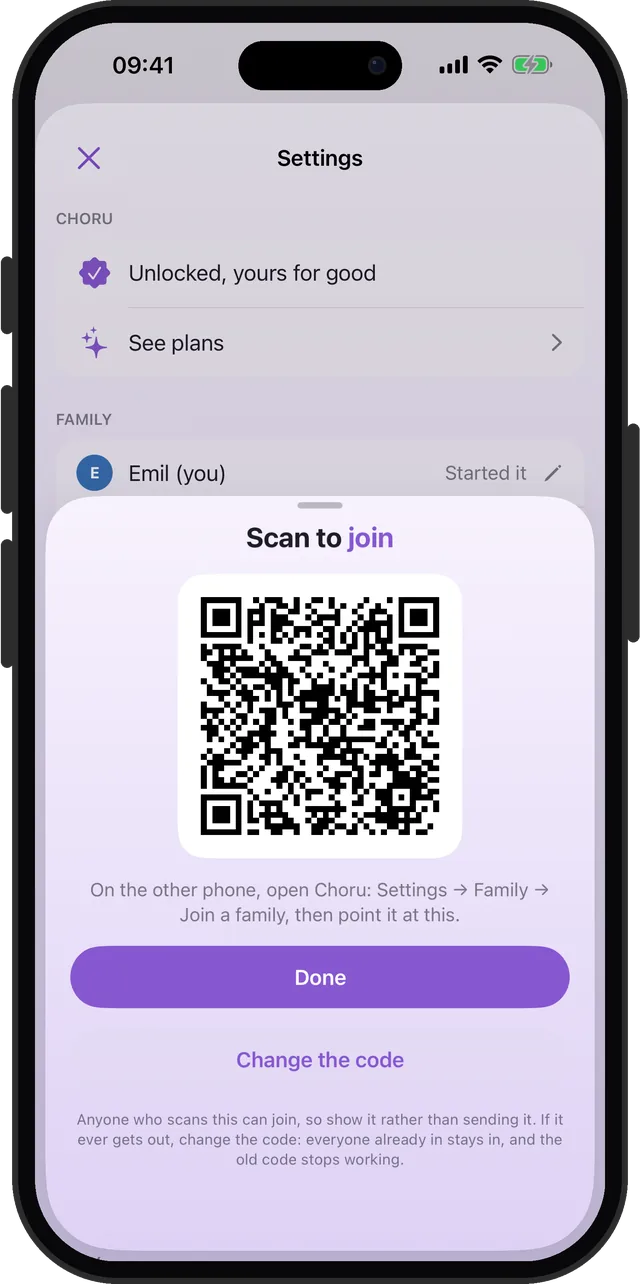
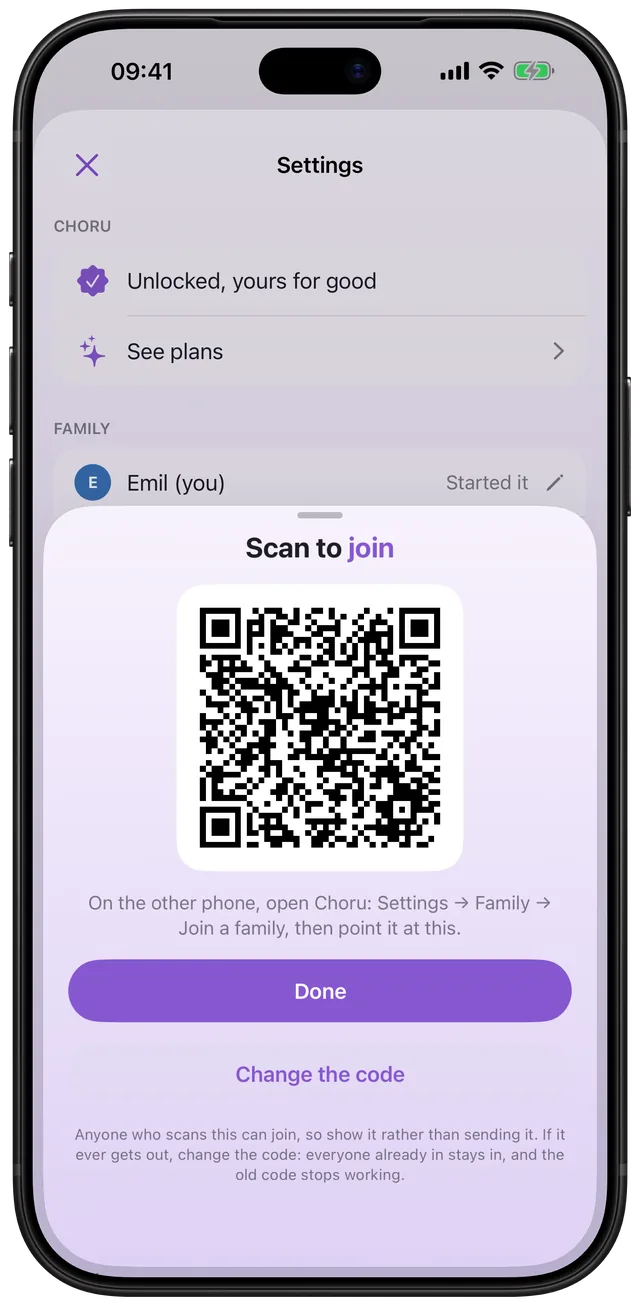
Phone images in Apple's own iPhone 18 Pro Max bezel
Replaces the drawn shell (and its painted island) with Apple's product bezel from Design Resources,
via Holocron tools/web-frames/apple_bezel.py; the bezel PNGs stay outside the repo. Any island already
in a capture is erased first so Apple's smaller one doesn't show a ghost. Every framed shot is now
640x1306 (Rise 600x1224); img width/height updated to match, PNG twins regenerated.
Layouts unchanged: Emil's call (Holocron brand.md 2026-11-01).

diff --git a/index.html b/index.html
@@ -188,7 +188,7 @@
       </div>
     </div>
     <div class="hero-art">
-      <img class="screen" src="/assets/shot-mess.webp" onerror="this.onerror=null;this.src='/assets/shot-mess.png'" alt="Choru on iPhone: the week calendar with three overdue chores, and Choru the dragon under a pile of mess" width="640" height="1284" fetchpriority="high">
+      <img class="screen" src="/assets/shot-mess.webp" onerror="this.onerror=null;this.src='/assets/shot-mess.png'" alt="Choru on iPhone: the week calendar with three overdue chores, and Choru the dragon under a pile of mess" width="640" height="1306" fetchpriority="high">
     </div>
   </div>
 </section>
@@ -258,77 +258,77 @@
       <div class="shots-track">
         <div class="shots-set">
           <figure>
-            <img class="screen" src="/assets/shot-mess.webp" onerror="this.onerror=null;this.src='/assets/shot-mess.png'" alt="The week calendar with three overdue chores, and Choru the dragon under a pile of mess" loading="lazy" width="640" height="1284">
+            <img class="screen" src="/assets/shot-mess.webp" onerror="this.onerror=null;this.src='/assets/shot-mess.png'" alt="The week calendar with three overdue chores, and Choru the dragon under a pile of mess" loading="lazy" width="640" height="1306">
             <figcaption>Help Choru out of the mess</figcaption>
           </figure>
           <figure>
-            <img class="screen" src="/assets/shot-done.webp" onerror="this.onerror=null;this.src='/assets/shot-done.png'" alt="Today&#x27;s chores all ticked off, and Choru the dragon resting" loading="lazy" width="640" height="1284">
+            <img class="screen" src="/assets/shot-done.webp" onerror="this.onerror=null;this.src='/assets/shot-done.png'" alt="Today&#x27;s chores all ticked off, and Choru the dragon resting" loading="lazy" width="640" height="1306">
             <figcaption>One tick at a time</figcaption>
           </figure>
           <figure>
-            <img class="screen" src="/assets/shot-chores.webp" onerror="this.onerror=null;this.src='/assets/shot-chores.png'" alt="The Chores tab: what is due today and in the next 7 days, each with its repeat" loading="lazy" width="640" height="1284">
+            <img class="screen" src="/assets/shot-chores.webp" onerror="this.onerror=null;this.src='/assets/shot-chores.png'" alt="The Chores tab: what is due today and in the next 7 days, each with its repeat" loading="lazy" width="640" height="1306">
             <figcaption>Every chore on its own rhythm</figcaption>
           </figure>
           <figure>
-            <img class="screen" src="/assets/shot-editor.webp" onerror="this.onerror=null;this.src='/assets/shot-editor.png'" alt="Editing a chore: its repeat, who it is for, and how many coins it pays" loading="lazy" width="640" height="1284">
+            <img class="screen" src="/assets/shot-editor.webp" onerror="this.onerror=null;this.src='/assets/shot-editor.png'" alt="Editing a chore: its repeat, who it is for, and how many coins it pays" loading="lazy" width="640" height="1306">
             <figcaption>Set it once, it repeats</figcaption>
           </figure>
           <figure>
-            <img class="screen" src="/assets/shot-family.webp" onerror="this.onerror=null;this.src='/assets/shot-family.png'" alt="The family&#x27;s join code, ready for another iPhone to scan" loading="lazy" width="640" height="1284">
+            <img class="screen" src="/assets/shot-family.webp" onerror="this.onerror=null;this.src='/assets/shot-family.png'" alt="The family&#x27;s join code, ready for another iPhone to scan" loading="lazy" width="640" height="1306">
             <figcaption>One family, every iPhone</figcaption>
           </figure>
           <figure>
-            <img class="screen" src="/assets/shot-kids.webp" onerror="this.onerror=null;this.src='/assets/shot-kids.png'" alt="The Kids tab: a kid&#x27;s streak, chores and rewards" loading="lazy" width="640" height="1284">
+            <img class="screen" src="/assets/shot-kids.webp" onerror="this.onerror=null;this.src='/assets/shot-kids.png'" alt="The Kids tab: a kid&#x27;s streak, chores and rewards" loading="lazy" width="640" height="1306">
             <figcaption>A Kids tab for the children</figcaption>
           </figure>
           <figure>
-            <img class="screen" src="/assets/shot-rewards.webp" onerror="this.onerror=null;this.src='/assets/shot-rewards.png'" alt="Rewards with their prices in coins, like an hour of screen time or a day out" loading="lazy" width="640" height="1284">
+            <img class="screen" src="/assets/shot-rewards.webp" onerror="this.onerror=null;this.src='/assets/shot-rewards.png'" alt="Rewards with their prices in coins, like an hour of screen time or a day out" loading="lazy" width="640" height="1306">
             <figcaption>Earn coins for every chore</figcaption>
           </figure>
           <figure>
-            <img class="screen" src="/assets/shot-stats.webp" onerror="this.onerror=null;this.src='/assets/shot-stats.png'" alt="Stats: your streak, coins, and the family&#x27;s chores this week" loading="lazy" width="640" height="1284">
+            <img class="screen" src="/assets/shot-stats.webp" onerror="this.onerror=null;this.src='/assets/shot-stats.png'" alt="Stats: your streak, coins, and the family&#x27;s chores this week" loading="lazy" width="640" height="1306">
             <figcaption>See what got done</figcaption>
           </figure>
           <figure>
-            <img class="screen" src="/assets/shot-widgets.webp" onerror="this.onerror=null;this.src='/assets/shot-widgets.png'" alt="Home Screen widgets with today&#x27;s chores and Choru the dragon" loading="lazy" width="640" height="1284">
+            <img class="screen" src="/assets/shot-widgets.webp" onerror="this.onerror=null;this.src='/assets/shot-widgets.png'" alt="Home Screen widgets with today&#x27;s chores and Choru the dragon" loading="lazy" width="640" height="1306">
             <figcaption>Home Screen widgets</figcaption>
           </figure>
         </div>
         <div class="shots-set" aria-hidden="true">
           <figure>
-            <img class="screen" src="/assets/shot-mess.webp" onerror="this.onerror=null;this.src='/assets/shot-mess.png'" alt="" loading="lazy" width="640" height="1284">
+            <img class="screen" src="/assets/shot-mess.webp" onerror="this.onerror=null;this.src='/assets/shot-mess.png'" alt="" loading="lazy" width="640" height="1306">
             <figcaption>Help Choru out of the mess</figcaption>
           </figure>
           <figure>
-            <img class="screen" src="/assets/shot-done.webp" onerror="this.onerror=null;this.src='/assets/shot-done.png'" alt="" loading="lazy" width="640" height="1284">
+            <img class="screen" src="/assets/shot-done.webp" onerror="this.onerror=null;this.src='/assets/shot-done.png'" alt="" loading="lazy" width="640" height="1306">
             <figcaption>One tick at a time</figcaption>
           </figure>
           <figure>
-            <img class="screen" src="/assets/shot-chores.webp" onerror="this.onerror=null;this.src='/assets/shot-chores.png'" alt="" loading="lazy" width="640" height="1284">
+            <img class="screen" src="/assets/shot-chores.webp" onerror="this.onerror=null;this.src='/assets/shot-chores.png'" alt="" loading="lazy" width="640" height="1306">
             <figcaption>Every chore on its own rhythm</figcaption>
           </figure>
           <figure>
-            <img class="screen" src="/assets/shot-editor.webp" onerror="this.onerror=null;this.src='/assets/shot-editor.png'" alt="" loading="lazy" width="640" height="1284">
+            <img class="screen" src="/assets/shot-editor.webp" onerror="this.onerror=null;this.src='/assets/shot-editor.png'" alt="" loading="lazy" width="640" height="1306">
             <figcaption>Set it once, it repeats</figcaption>
           </figure>
           <figure>
-            <img class="screen" src="/assets/shot-family.webp" onerror="this.onerror=null;this.src='/assets/shot-family.png'" alt="" loading="lazy" width="640" height="1284">
+            <img class="screen" src="/assets/shot-family.webp" onerror="this.onerror=null;this.src='/assets/shot-family.png'" alt="" loading="lazy" width="640" height="1306">
             <figcaption>One family, every iPhone</figcaption>
           </figure>
           <figure>
-            <img class="screen" src="/assets/shot-kids.webp" onerror="this.onerror=null;this.src='/assets/shot-kids.png'" alt="" loading="lazy" width="640" height="1284">
+            <img class="screen" src="/assets/shot-kids.webp" onerror="this.onerror=null;this.src='/assets/shot-kids.png'" alt="" loading="lazy" width="640" height="1306">
             <figcaption>A Kids tab for the children</figcaption>
           </figure>
           <figure>
-            <img class="screen" src="/assets/shot-rewards.webp" onerror="this.onerror=null;this.src='/assets/shot-rewards.png'" alt="" loading="lazy" width="640" height="1284">
+            <img class="screen" src="/assets/shot-rewards.webp" onerror="this.onerror=null;this.src='/assets/shot-rewards.png'" alt="" loading="lazy" width="640" height="1306">
             <figcaption>Earn coins for every chore</figcaption>
           </figure>
           <figure>
-            <img class="screen" src="/assets/shot-stats.webp" onerror="this.onerror=null;this.src='/assets/shot-stats.png'" alt="" loading="lazy" width="640" height="1284">
+            <img class="screen" src="/assets/shot-stats.webp" onerror="this.onerror=null;this.src='/assets/shot-stats.png'" alt="" loading="lazy" width="640" height="1306">
             <figcaption>See what got done</figcaption>
           </figure>
           <figure>
-            <img class="screen" src="/assets/shot-widgets.webp" onerror="this.onerror=null;this.src='/assets/shot-widgets.png'" alt="" loading="lazy" width="640" height="1284">
+            <img class="screen" src="/assets/shot-widgets.webp" onerror="this.onerror=null;this.src='/assets/shot-widgets.png'" alt="" loading="lazy" width="640" height="1306">
             <figcaption>Home Screen widgets</figcaption>
           </figure>
         </div>

diff --git a/guides/split-chores-with-partner/index.html b/guides/split-chores-with-partner/index.html
@@ -141,14 +141,14 @@
   <li>Tick chores off as you do them. When a chore is on both your lists, Choru asks "Did you have help?" after the tick, so the coins go to everyone who pitched in.</li>
 </ol>
 <figure>
-  <img class="screen" src="/assets/shot-editor.webp" onerror="this.onerror=null;this.src='/assets/shot-editor.png'" alt="Editing a chore in Choru: Wipe the counters, repeating daily, with a For row to pick who it belongs to and a reward of 3 coins" loading="lazy" width="640" height="1284">
+  <img class="screen" src="/assets/shot-editor.webp" onerror="this.onerror=null;this.src='/assets/shot-editor.png'" alt="Editing a chore in Choru: Wipe the counters, repeating daily, with a For row to pick who it belongs to and a reward of 3 coins" loading="lazy" width="640" height="1306">
   <figcaption>Who it is for, how often it comes back, and what it pays.</figcaption>
 </figure>
 
 <h2>Check in on the numbers, not the feelings</h2>
 <p>Once a week, look at what actually got done. Choru's Stats count each person's chores for the week, which can settle the "I do everything" debate, one way or the other. If one side keeps coming out heavy, move a chore across. No speeches needed.</p>
 <figure>
-  <img class="screen" src="/assets/shot-stats.webp" onerror="this.onerror=null;this.src='/assets/shot-stats.png'" alt="Choru Stats with the family&#x27;s chores this week, counted per person" loading="lazy" width="640" height="1284">
+  <img class="screen" src="/assets/shot-stats.webp" onerror="this.onerror=null;this.src='/assets/shot-stats.png'" alt="Choru Stats with the family&#x27;s chores this week, counted per person" loading="lazy" width="640" height="1306">
   <figcaption>The week's chores, per person.</figcaption>
 </figure>
 <div class="note-box">You each need Choru on your own iPhone, signed in to your own Apple Account. A family can have up to five people.</div>

diff --git a/guides/deep-cleaning-schedule/index.html b/guides/deep-cleaning-schedule/index.html
@@ -140,14 +140,14 @@
 </ol>
 <p>Some jobs do not need a fixed date. Make those anytime tasks instead: tick one off whenever you get to it, and it comes back a month, three months, six months or a year later.</p>
 <figure>
-  <img class="screen" src="/assets/shot-chores.webp" onerror="this.onerror=null;this.src='/assets/shot-chores.png'" alt="Choru&#x27;s Chores tab: chores due today and in the next 7 days, each showing its repeat, like every 2 weeks or weekly" loading="lazy" width="640" height="1284">
+  <img class="screen" src="/assets/shot-chores.webp" onerror="this.onerror=null;this.src='/assets/shot-chores.png'" alt="Choru&#x27;s Chores tab: chores due today and in the next 7 days, each showing its repeat, like every 2 weeks or weekly" loading="lazy" width="640" height="1306">
   <figcaption>Each chore keeps its own rhythm and shows when it is next due.</figcaption>
 </figure>
 
 <h2>When you miss one</h2>
 <p>You will. Life happens. On a paper schedule, a missed job is simply gone until someone remembers. In Choru it carries over to today as one row, with how late it is, so the oven that was due three weeks ago is still there, asking politely.</p>
 <figure>
-  <img class="screen" src="/assets/shot-mess.webp" onerror="this.onerror=null;this.src='/assets/shot-mess.png'" alt="Choru&#x27;s calendar with three overdue chores carried over to today, and Choru the dragon under a pile of mess" loading="lazy" width="640" height="1284">
+  <img class="screen" src="/assets/shot-mess.webp" onerror="this.onerror=null;this.src='/assets/shot-mess.png'" alt="Choru&#x27;s calendar with three overdue chores carried over to today, and Choru the dragon under a pile of mess" loading="lazy" width="640" height="1306">
   <figcaption>Missed chores carry over to today, showing how late they are.</figcaption>
 </figure>
 

diff --git a/guides/chore-chart-for-kids-with-rewards/index.html b/guides/chore-chart-for-kids-with-rewards/index.html
@@ -137,14 +137,14 @@
   <li>Add rewards for each kid in the Kids tab, set their prices, and let the coins pile up.</li>
 </ol>
 <figure>
-  <img class="screen" src="/assets/shot-kids.webp" onerror="this.onerror=null;this.src='/assets/shot-kids.png'" alt="Choru&#x27;s Kids tab for Mia: a 21 day streak, her chores for today, and rewards like Pick the film for 12 coins" loading="lazy" width="640" height="1284">
+  <img class="screen" src="/assets/shot-kids.webp" onerror="this.onerror=null;this.src='/assets/shot-kids.png'" alt="Choru&#x27;s Kids tab for Mia: a 21 day streak, her chores for today, and rewards like Pick the film for 12 coins" loading="lazy" width="640" height="1306">
   <figcaption>Each kid's chores, streak, coins and rewards, on one screen.</figcaption>
 </figure>
 
 <h2>Their own phone, locked to their own list</h2>
 <p>A kid's phone locks itself to their own chores and rewards, so nobody quietly re-prices their own jobs. Any grown-up in the family can get past the lock with the parent PIN.</p>
 <figure>
-  <img class="screen" src="/assets/shot-kidphone.webp" onerror="this.onerror=null;this.src='/assets/shot-kidphone.png'" alt="A kid&#x27;s iPhone in Choru, showing only their own chores for today and the next 7 days" loading="lazy" width="640" height="1284">
+  <img class="screen" src="/assets/shot-kidphone.webp" onerror="this.onerror=null;this.src='/assets/shot-kidphone.png'" alt="A kid&#x27;s iPhone in Choru, showing only their own chores for today and the next 7 days" loading="lazy" width="640" height="1306">
   <figcaption>On a kid's phone: their chores, and nothing to re-price.</figcaption>
 </figure>
 <div class="note-box">Coins are a tally inside the app, not money. What a reward is, and keeping the promise, stays between you and your kids.</div>

diff --git a/guides/share-chore-list-with-family-iphone/index.html b/guides/share-chore-list-with-family-iphone/index.html
@@ -131,7 +131,7 @@
   <li>Put a chore on someone's list with the For row when you add or edit it.</li>
 </ol>
 <figure>
-  <img class="screen" src="/assets/shot-family.webp" onerror="this.onerror=null;this.src='/assets/shot-family.png'" alt="Choru showing the family&#x27;s join code to scan, with the steps for the other phone" loading="lazy" width="640" height="1284">
+  <img class="screen" src="/assets/shot-family.webp" onerror="this.onerror=null;this.src='/assets/shot-family.png'" alt="Choru showing the family&#x27;s join code to scan, with the steps for the other phone" loading="lazy" width="640" height="1306">
   <figcaption>The other phone scans the code and joins.</figcaption>
 </figure>
 

diff --git a/guides/chores-in-reminders-app/index.html b/guides/chores-in-reminders-app/index.html
@@ -152,7 +152,7 @@
   <li>A streak, with rest days and days away so a day off does not break it.</li>
 </ul>
 <figure>
-  <img class="screen" src="/assets/shot-done.webp" onerror="this.onerror=null;this.src='/assets/shot-done.png'" alt="Choru&#x27;s calendar with today&#x27;s chores all ticked and Choru the dragon resting" loading="lazy" width="640" height="1284">
+  <img class="screen" src="/assets/shot-done.webp" onerror="this.onerror=null;this.src='/assets/shot-done.png'" alt="Choru&#x27;s calendar with today&#x27;s chores all ticked and Choru the dragon resting" loading="lazy" width="640" height="1306">
   <figcaption>All done. Choru can rest now.</figcaption>
 </figure>
 

diff --git a/_gen/make_assets.py b/_gen/make_assets.py
@@ -15,6 +15,11 @@ import os
 import sys
 from PIL import Image, ImageDraw, ImageFont
 
+# Apple's own product bezel since 2026-11-01 (Holocron brand.md; bezel PNGs in ~/Documents/Xcode/AppleBezels,
+# never in this repo). The bezel carries the Dynamic Island and camera, so nothing is painted on the capture.
+sys.path.insert(0, os.path.expanduser("~/Documents/Holocron/tools/web-frames"))
+from apple_bezel import frame as apple_frame  # noqa: E402
+
 GEN = os.path.dirname(os.path.abspath(__file__))
 SITE = os.path.dirname(GEN)
 APP = os.path.dirname(SITE)                      # the Choru app repo this site sits in
@@ -55,42 +60,9 @@ MASCOTS = {
 
 
 def shell(img):
-    """AlarmPlanner's frame_web.py shell (buttons protrude) plus the store Dynamic Island."""
-    img = img.convert("RGBA")
-    sw, height = img.size
-    scr_r = int(sw * SCREEN_R_RATIO)
-    bez = max(6, int(sw * BEZEL_RATIO))
-    rimw = max(2, int(sw * RIM_RATIO))
-    bwid = max(3, rimw * 2)
+    """The capture in Apple's iPhone bezel (Dynamic Island and camera included)."""
+    return apple_frame(img)
 
-    fw, fh = sw + (bez + rimw) * 2, height + (bez + rimw) * 2
-    W, H = fw + bwid * 2, fh
-    ox = bwid
-    out = Image.new("RGBA", (W, H), (0, 0, 0, 0))
-    d = ImageDraw.Draw(out)
-
-    unit = fh / 100
-    for y0, y1 in [(20, 26), (30, 40), (42, 52)]:                     # action, vol up, vol down
-        d.rounded_rectangle([2, int(unit * y0), ox + 2, int(unit * y1)],
-                            radius=bwid // 2, fill=RIM_COLOR)
-    d.rounded_rectangle([ox + fw - 2, int(unit * 33), W - 2, int(unit * 50)],   # power
-                        radius=bwid // 2, fill=RIM_COLOR)
-
-    d.rounded_rectangle([(ox, 0), (ox + fw - 1, fh - 1)], radius=scr_r + bez + rimw, fill=RIM_COLOR)
-    d.rounded_rectangle([(ox + rimw, rimw), (ox + fw - rimw - 1, fh - rimw - 1)],
-                        radius=scr_r + bez, fill=(8, 8, 10, 255))
-
-    m = Image.new("L", img.size, 0)
-    ImageDraw.Draw(m).rounded_rectangle([(0, 0), img.size], radius=scr_r, fill=255)
-    img.putalpha(m)
-    out.paste(img, (ox + bez + rimw, bez + rimw), img)
-
-    iw, ih = round(sw * ISLAND["w_ratio"]), round(sw * ISLAND["h_ratio"])
-    top = bez + rimw + round(sw * ISLAND["top_ratio"])
-    ix = ox + bez + rimw + (sw - iw) // 2
-    d.rounded_rectangle([ix, top, ix + iw, top + ih], radius=ih // 2, fill=(0, 0, 0, 255))
-    out.alpha_composite(camera_lens(ih), (ix + iw - ih, top))
-    return out
 
 
 def camera_lens(ih):

diff --git a/_gen/build.py b/_gen/build.py
@@ -200,7 +200,7 @@ def badge(campaign, label="Download Choru on the App Store"):
 
 def figure(src, alt, caption):
     return f"""<figure>
-  <img class="screen" src="/assets/{src}" alt="{html.escape(alt)}" loading="lazy" width="640" height="1284">
+  <img class="screen" src="/assets/{src}" alt="{html.escape(alt)}" loading="lazy" width="640" height="1306">
   <figcaption>{caption}</figcaption>
 </figure>"""
 
@@ -786,7 +786,7 @@ def feature_cards():
 
 def marquee_set(hidden):
     figs = "\n".join(f"""          <figure>
-            <img class="screen" src="/assets/{src}" alt="{'' if hidden else html.escape(alt)}" loading="lazy" width="640" height="1284">
+            <img class="screen" src="/assets/{src}" alt="{'' if hidden else html.escape(alt)}" loading="lazy" width="640" height="1306">
             <figcaption>{cap}</figcaption>
           </figure>""" for src, alt, cap in SHOTS)
     aria = ' aria-hidden="true"' if hidden else ""
@@ -823,7 +823,7 @@ home_body = f"""
       </div>
     </div>
     <div class="hero-art">
-      <img class="screen" src="/assets/shot-mess.webp" alt="Choru on iPhone: the week calendar with three overdue chores, and Choru the dragon under a pile of mess" width="640" height="1284" fetchpriority="high">
+      <img class="screen" src="/assets/shot-mess.webp" alt="Choru on iPhone: the week calendar with three overdue chores, and Choru the dragon under a pile of mess" width="640" height="1306" fetchpriority="high">
     </div>
   </div>
 </section>
